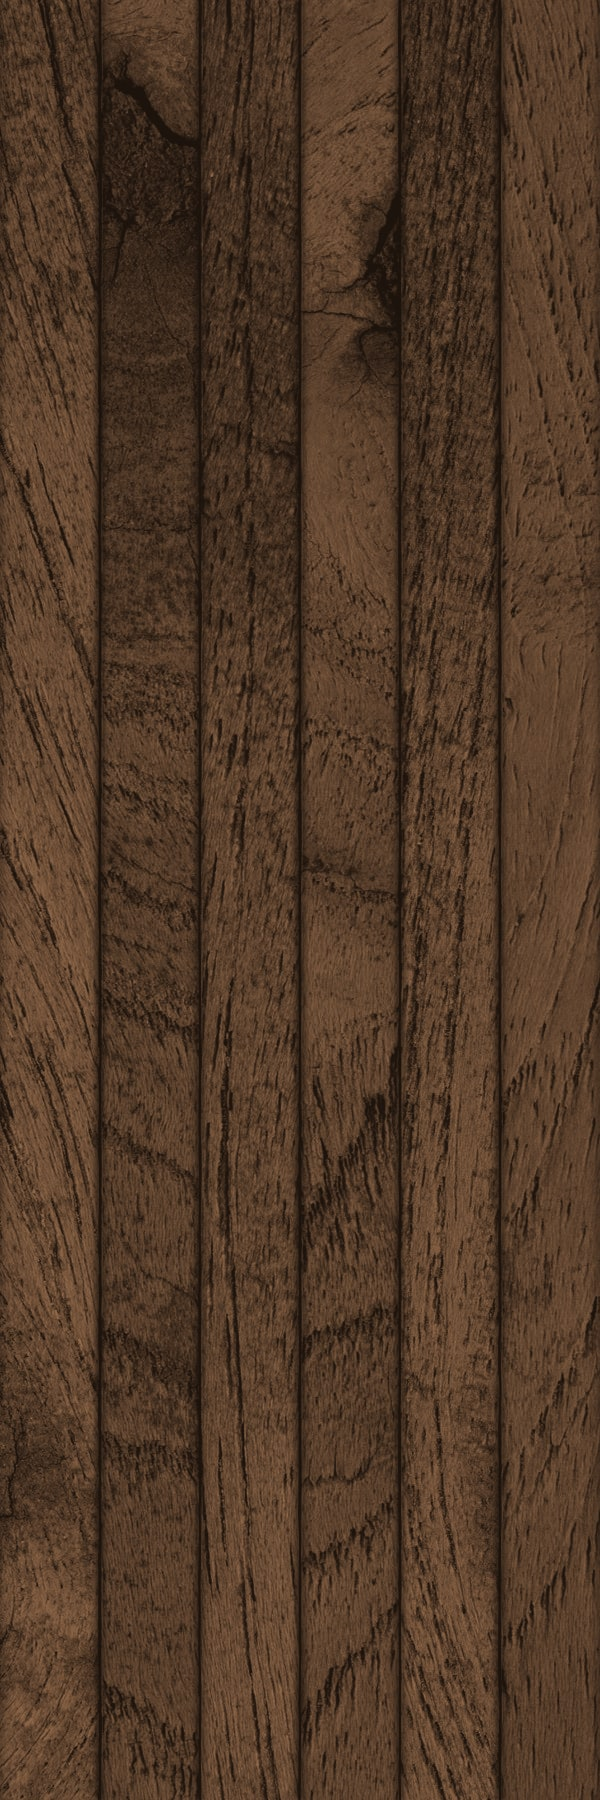
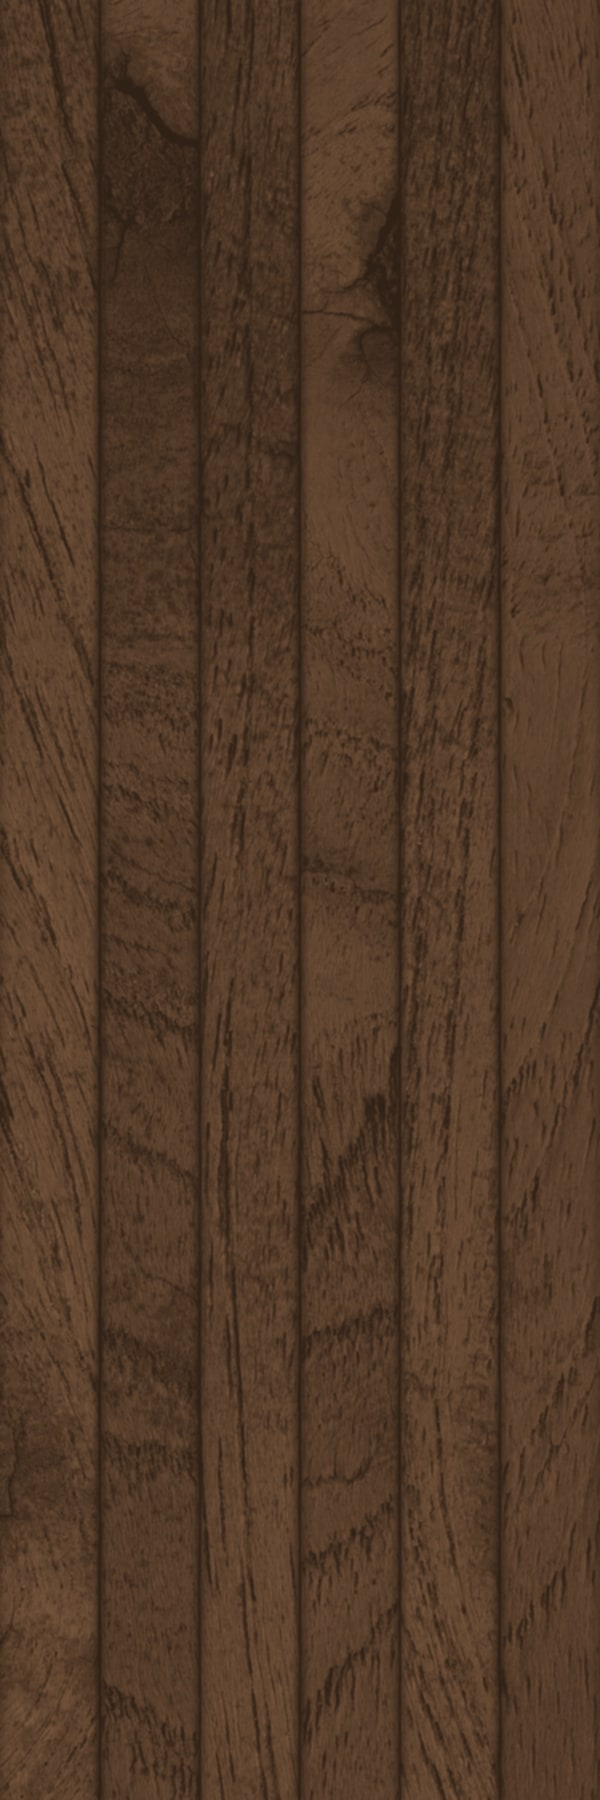
Doorway: ivy as one plant filling the top-left and across the top; 入 carved like the couplets; subtler timber grain

diff --git a/docs/CREDITS.md b/docs/CREDITS.md
@@ -65,7 +65,7 @@ AI-generated tracks were excluded on purpose: a brand sound should be human-made
 | frame-walnut.jpg (doorway arch frame timber); frame-walnut-stained.jpg (the same, in a dark Japanese stain) | Generated for Sia with OpenArt (Nano Banana 2), Plus plan with commercial use rights, 2026-10-26 |
 | door-iron.jpg (doorway door hardware: hinges, rivets, ring pulls) | Generated for Sia with OpenArt (Nano Banana 2), Plus plan with commercial use rights, 2026-10-26 |
 | ground-stone.jpg (doorway forecourt flagstones, mirrored into a seamless tile, relief lighting added); step-stone.jpg (the doorway step: a clean piece of one of these flagstones, tiled) | Generated for Sia with OpenArt (Nano Banana 2), Plus plan with commercial use rights, 2026-10-26 |
-| wall-ivy-left.webp, wall-ivy-right.webp and their -shadow files (ivy clinging flat in the two top corners of the doorway wall, cut out from a magenta backdrop; their soft shadows) | Generated for Sia with OpenArt (Nano Banana Pro), Plus plan with commercial use rights, 2026-10-27 |
+| wall-ivy.webp, wall-ivy-shadow.webp (ivy clinging flat across the doorway wall: filling the top-left corner, along the top and a little down the right; cut out from a magenta backdrop; its soft shadow) | Generated for Sia with OpenArt (Nano Banana Pro), Plus plan with commercial use rights, 2026-10-27 |
 | wall-plaster.jpg (doorway wall: moss lime plaster, darkened and mirrored into a seamless tile) | Generated for Sia with OpenArt (Nano Banana 2), Plus plan with commercial use rights, 2026-10-26 |
 | garden-bamboo-a.webp, garden-bamboo-b.webp (courtyard tall airy bamboo in round carved stone pots, cut out) | Generated for Sia with OpenArt (Nano Banana 2), Plus plan with commercial use rights, 2026-10-26 |
 | spa-room.jpg (view through the doorway: candlelit spa treatment room seen from the threshold, with rug, door mat and lotus painting; gentle low-light grade) | Generated for Sia with OpenArt (Nano Banana Pro), Plus plan with commercial use rights, 2026-10-27 |
